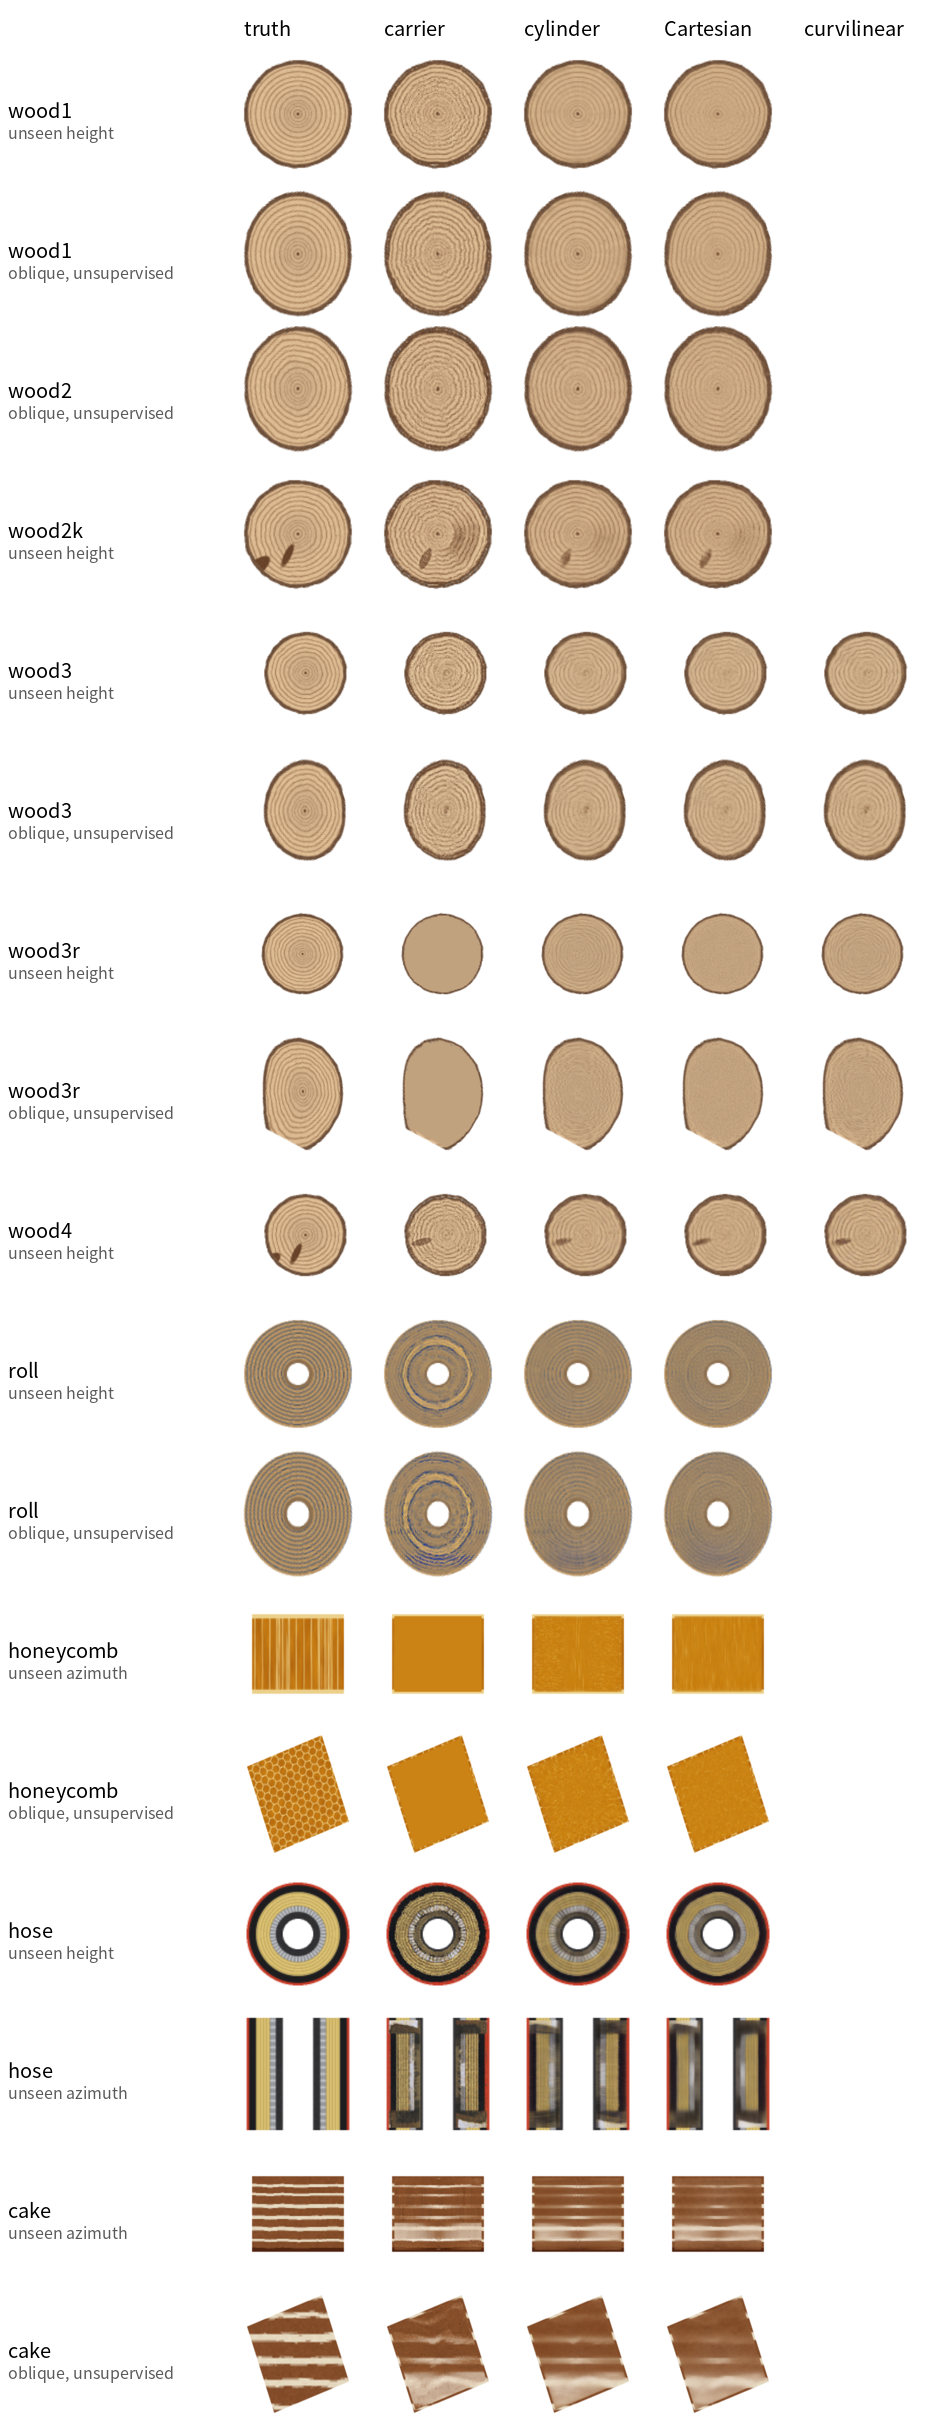
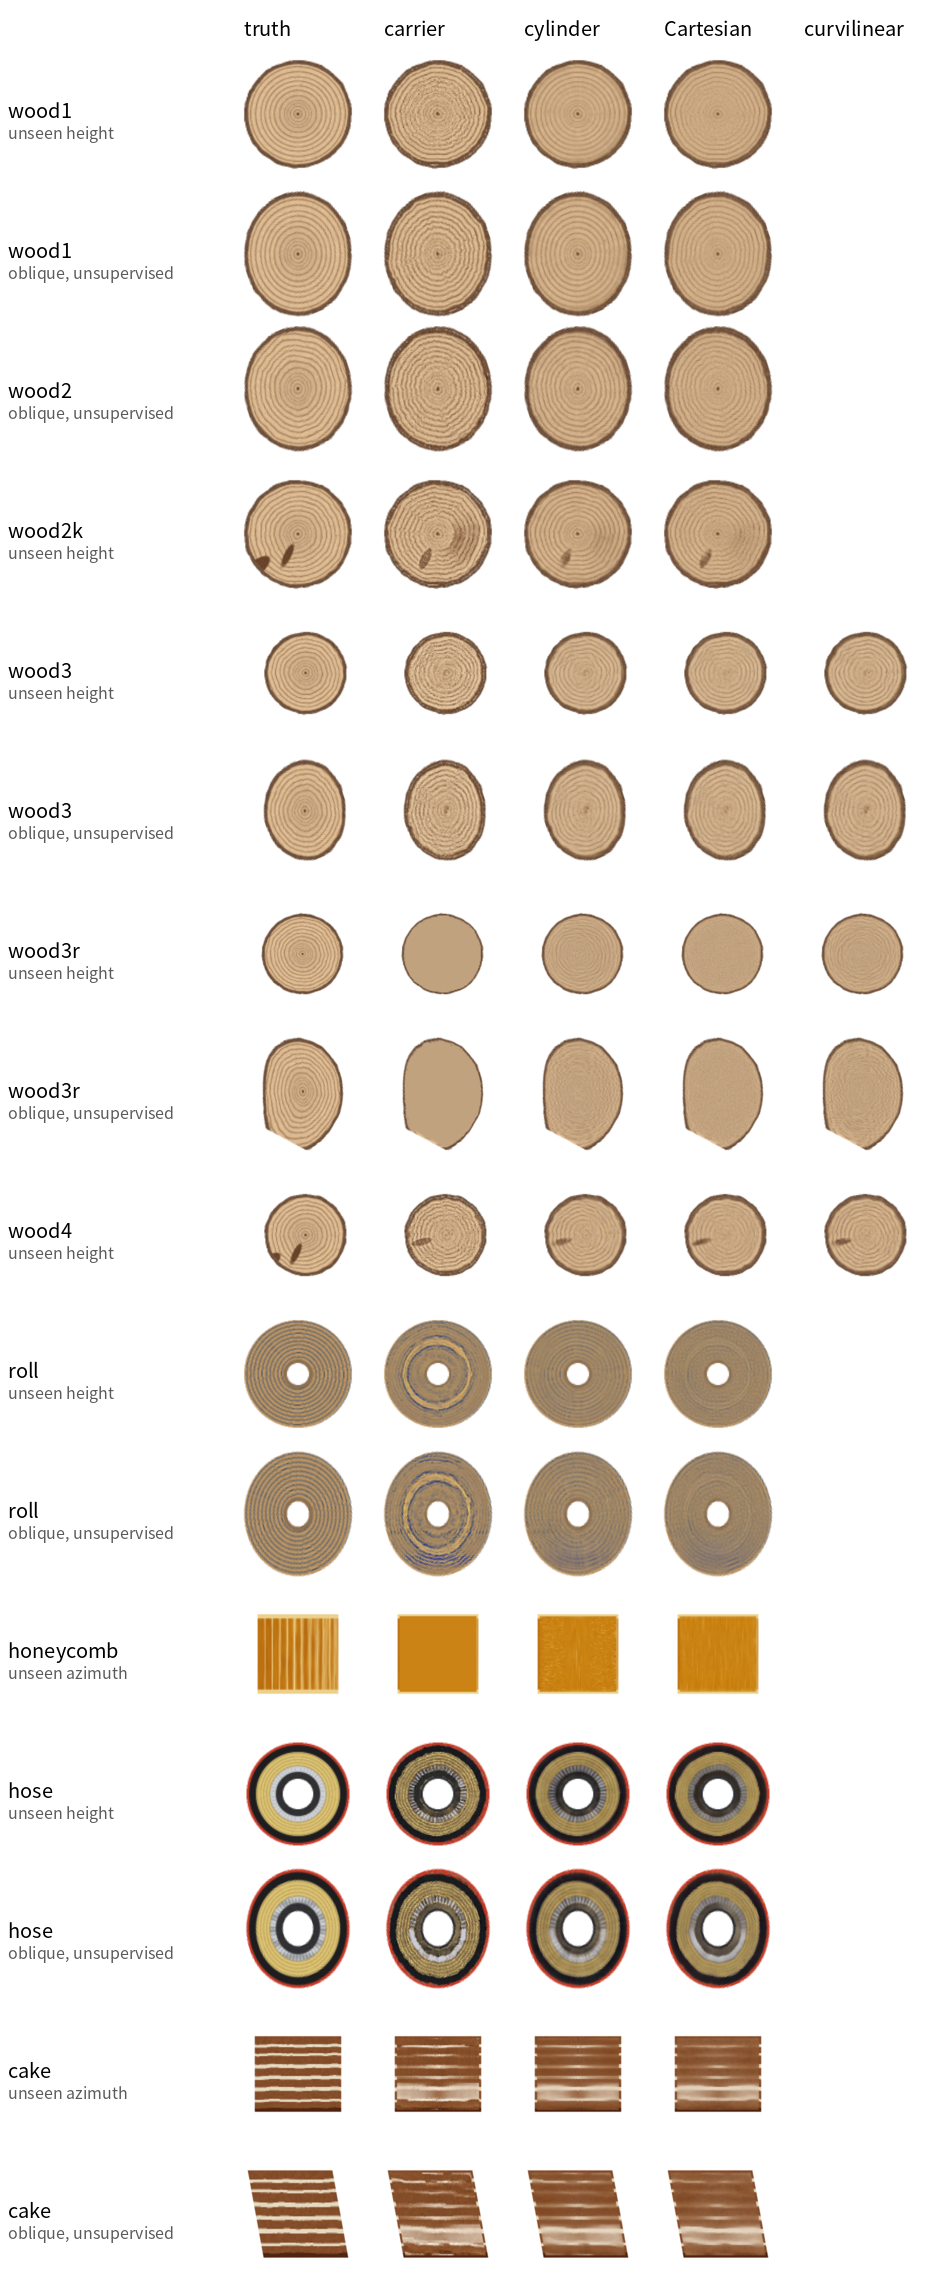
3dfusion v0.1: Figure 13 shows cleaner planes for the honeycomb, hose and cake

diff --git a/3dfusion_v0.1.html b/3dfusion_v0.1.html
@@ -503,7 +503,7 @@ $$ \hat{x}_0 \;=\; w(r)\,\hat{x}_0^{L} \;+\; \big(1-w(r)\big)\,\hat{x}_0^{T},
 
 <figure style="margin:16px 0 26px">
   <img src="assets/v01_gt_faces.png" style="width:100%;max-width:760px;margin:0 auto;display:block;border-radius:4px" alt="held-out faces of seven generated solids: the truth, the carrier, the cylindrical, Cartesian and curvilinear lifts">
-  <figcaption><span class="fnum">Figure 13</span><br><strong>Unseen and oblique faces against the truth.</strong> On the trunks the carrier&#8217;s rings are kinked and streaked between its supervised planes, and the cylindrical lift draws them as rings; on the curved trunks the curvilinear lift is the cleanest. On wood3r the carrier fitted no rings at all, a flat disc, and the cylindrical and curvilinear lifts draw them back. On the honeycomb no arm draws the hexagonal walls: the carrier fitted one flat amber and the priors add texture under a layout that has none. The hose and the cake keep their layout and lose their finest detail.</figcaption>
+  <figcaption><span class="fnum">Figure 13</span><br><strong>Unseen and oblique faces against the truth.</strong> On the trunks the carrier&#8217;s rings are kinked and streaked between its supervised planes, and the cylindrical lift draws them as rings; on the curved trunks the curvilinear lift is the cleanest. On wood3r the carrier fitted no rings at all, a flat disc, and the cylindrical and curvilinear lifts draw them back. On the honeycomb&#8217;s lengthwise face the carrier fitted one flat amber; the Cartesian lift draws faint vertical walls in the right direction (Table&nbsp;7, 3.8&deg;) but not their spacing, and on transverse and oblique planes no arm draws the hexagonal cells. The hose keeps its liner, braid and cover, the cylinder most cleanly; the cake keeps its layers and blurs the cream between them.</figcaption>
 </figure>
 
 <p>Table&nbsp;8 is the whole-volume view. On all seven trunks the lift is closer to the truth than the carrier in PSNR and SSIM on every kind of face and in DreamSim on all but one &mdash; wood4&#8217;s longitudinal faces, 0.204 against 0.196 &mdash; and the oblique planes &mdash; supervised by no cut &mdash; are where the margin is largest: on wood1 the DreamSim falls from 0.044 to 0.021 and the orientation error from 6.4&deg; to 2.7&deg;. The volume the product of experts samples is coherent in 3-D, not two families each looking right on its own planes.</p>
